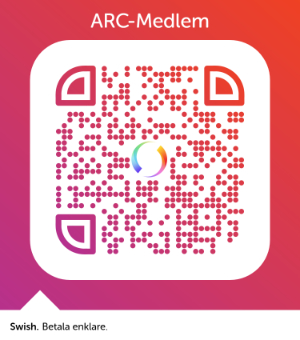
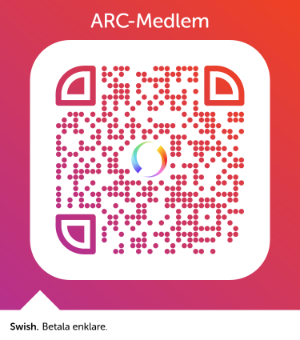
Updated swish number

diff --git a/contact.html b/contact.html
@@ -20,7 +20,7 @@ permalink: /contact/
         <div class="col-lg-8">
           <h4>Bli Medlem</h4>
           <div class="hline"></div>
-              <p>Vi vill gärna att du också blir medlem i ARC! Medlemskap kostar endast 100kr per läsår och då får du tillgång till ARCs alla komponenter och verktyg, t.ex. Arduinos, 3D-skrivare. Och så bjuder vi såklart på fika när vi har våra träffar! ARC kan även hjälpa till att sponsra medlemmars egna robotikprojekt. För att anmäla medlemskap klicka <a href="https://docs.google.com/forms/d/e/1FAIpQLSc50Bqkg85Wf4pZwZQ6lfQwO6GdEGXdJAAOK-vs3dWrzOlGyQ/viewform">här</a> för att fylla i anmälningsformuläret. Betalningen sker via swish genom att skicka 100 kr till Erik Lindgren 0721795518 med texten "ARC-Medlem" eller genom att skanna QR-koden nedan. Det går även att betala via bankgiro 605-1585 eller kontant på plats. </p>
+              <p>Vi vill gärna att du också blir medlem i ARC! Medlemskap kostar endast 100kr per läsår och då får du tillgång till ARCs alla komponenter och verktyg, t.ex. Arduinos, 3D-skrivare. Och så bjuder vi såklart på fika när vi har våra träffar! ARC kan även hjälpa till att sponsra medlemmars egna robotikprojekt. För att anmäla medlemskap klicka <a href="https://docs.google.com/forms/d/e/1FAIpQLSc50Bqkg85Wf4pZwZQ6lfQwO6GdEGXdJAAOK-vs3dWrzOlGyQ/viewform">här</a> för att fylla i anmälningsformuläret. Betalningen sker via swish genom att skicka 100 kr till nummret 123 020 46 93 med texten "ARC-Medlem" eller genom att skanna QR-koden nedan. Det går även att betala via bankgiro 605-1585 eller kontant på plats. </p>
               <img class="img-responsive" src="{{ "/assets/img/qr.jpg" | prepend: site.baseurl }}" alt="">
               <p>För att bli medlem och ta del av dessa fördelaktiga resurser behöver du endast betala medlemsavgiften och acceptera våra medlemsvillkor. </p>
               <h3>Medlemsvillkor</h3>
